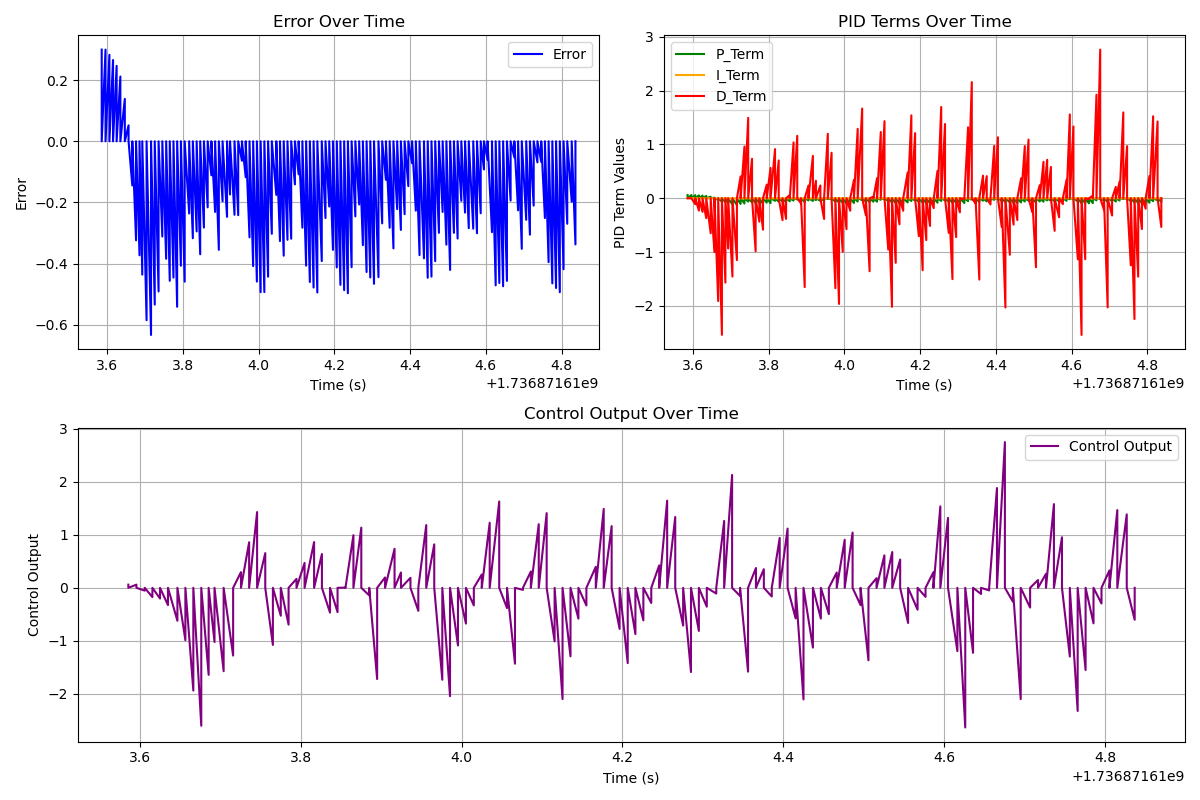
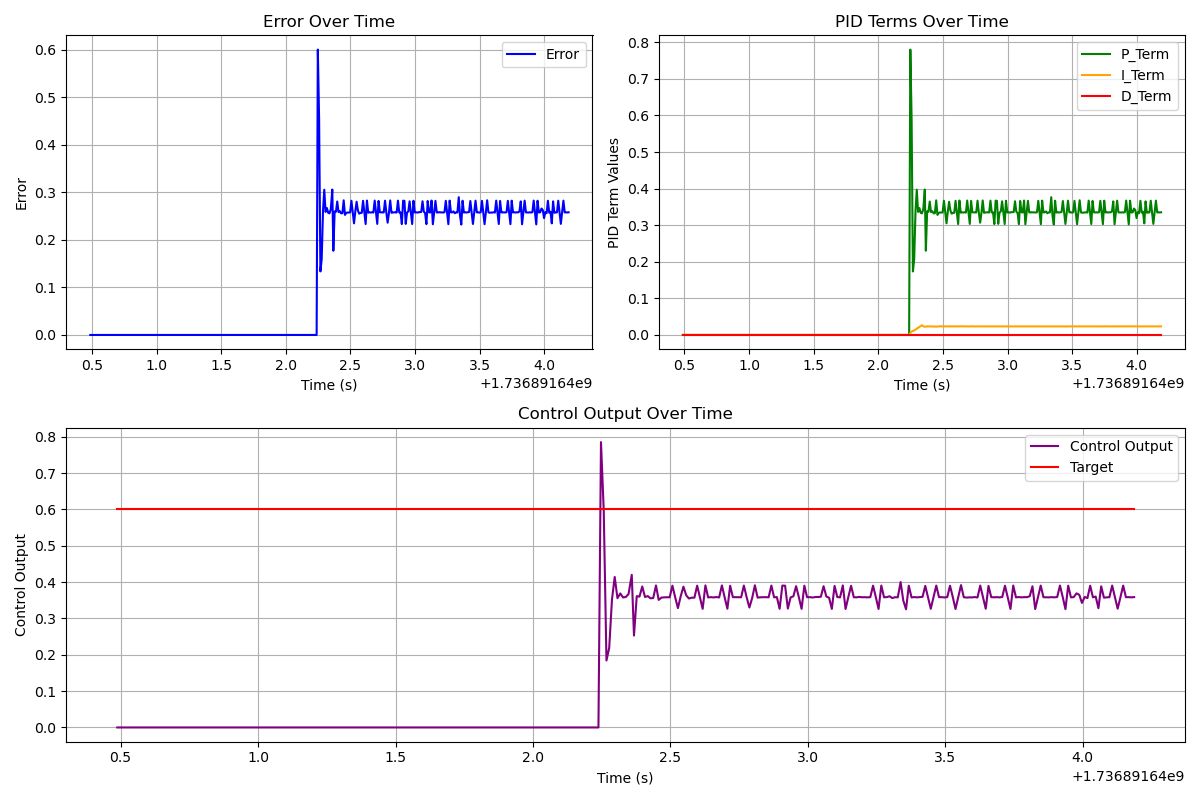
open loop speed control

diff --git a/src/locomotion/locomotion/controller.py b/src/locomotion/locomotion/controller.py
@@ -9,34 +9,34 @@ from locomotion.motor_control import MotorController
 from locomotion.localization import LocalizationNode
 
 from pid import PID_ctrl
-from utilities import calculate_pos_error, calculate_velocity_error
+from utilities import calculate_pos_error
 from robot_params import max_linear_speed, max_angular_speed
 
 class ControllerNode(Node):
-    def __init__(self, klp=0.2, klv=0.2, kli=0.2, kap=0.2, kav=0.2, kai=0.2):
+    def __init__(self, klp=1.3, kld=0, kli=1.0, kap=0.2, kad=0.2, kai=0.2):
         super().__init__('Controller')
         self.cmd_vel_subscription = self.create_subscription(Twist, '/cmd_vel', self.cmd_vel_callback, 10)
         self.cmd_pose_subscription = self.create_subscription(PoseStamped, '/cmd_pose', self.cmd_pose_callback, 10)
 
         self.cmd_publisher = self.create_publisher(String, '/cmd', 10)
         
-        self.velocity_target = Twist()
         self.goal_pose = PoseStamped()
+        self.velocity_target = Twist()
+        self.last_linear_velocity = 0.0
+        self.last_angular_velocity = 0.0
+        self.alpha = 0.05  # TODO: tune for how agressively the robot should stop
 
         self.motor_controller = MotorController()
         self.localization_node = LocalizationNode()
 
-        self.linear_pid=PID_ctrl(klp, klv, kli)
-        self.angular_pid=PID_ctrl(kap, kav, kai)
+        self.linear_pid=PID_ctrl(klp, kld, kli)
+        self.angular_pid=PID_ctrl(kap, kad, kai)
         self.control_timer = self.create_timer(0.01, self.control_loop)
         self.linear_error_tolerance = 0.01 # 1cm TODO: tune this
-        self.angular_error_tolerance = 0.05 # rad TODO: tune this
+        self.angular_error_tolerance = 0.1 # rad TODO: tune this
 
     def cmd_vel_callback(self, msg):
         self.velocity_target = msg
-        # End control if the velocity target is 0
-        if self.velocity_target.linear.x == 0 and self.velocity_target.angular.z == 0:
-            self.reset_control()
 
     # End control if the pose target is 0
     def cmd_pose_callback(self, msg):
@@ -45,37 +45,54 @@ class ControllerNode(Node):
             self.reset_control()
 
     def control_loop(self):
-        # We have a velocity target
-        current_odom = self.localization_node.update_odometry()
-        if self.velocity_target.linear.x != 0 or self.velocity_target.angular.z != 0:
-            linear_error, angluar_error = calculate_velocity_error(self.last_odom.twist.twist, self.velocity_target)
-
         # We have a pose target
-        elif self.goal_pose.pose.position.x != 0 or self.goal_pose.pose.position.y != 0 or self.goal_pose.pose.orientation.z != 0:
-            linear_error, angluar_error = calculate_pos_error(self.last_odom.pose.pose, self.goal_pose.pose)
+        current_odom = self.localization_node.update_odometry()
+        if self.goal_pose.pose.position.x != 0 or self.goal_pose.pose.position.y != 0 or self.goal_pose.pose.orientation.z != 0:
+            linear_error, angluar_error = calculate_pos_error(current_odom.pose.pose, self.goal_pose.pose)
 
             # Check if we reached the goal
             if linear_error < self.linear_error_tolerance and angluar_error < self.angular_error_tolerance:
                 self.reset_control()
                 self.cmd_publisher.publish(String(data="goal_reached"))
                 return
-        # No target
+            
+            stamp = current_odom.header.stamp
+            linear_vel = self.linear_pid.update([linear_error, stamp])
+            # angular_vel = self.angular_pid.update([angluar_error, stamp])
+            angular_vel = 0.0
+
+            # Bound velocities
+            if abs(linear_vel) > max_linear_speed:
+                linear_vel = max_linear_speed if linear_vel > 0 else -max_linear_speed
+            if abs(angular_vel) > max_angular_speed:
+                angular_vel = max_angular_speed if angular_vel > 0 else -max_angular_speed
+
+            self.motor_controller.set_velocity(linear_vel, angular_vel)
+        # Open loop velocity control with gain scheduling
         else:
+             # Smooth target velocities
+            target_linear_vel = self.velocity_target.linear.x
+            target_angular_vel = self.velocity_target.angular.z
+
+            # Apply low-pass filtering for smooth transitions
+            smooth_linear_vel = self.alpha * target_linear_vel + (1 - self.alpha) * self.last_linear_velocity
+            smooth_angular_vel = self.alpha * target_angular_vel + (1 - self.alpha) * self.last_angular_velocity
+
+            # Update last velocities for filtering
+            self.last_linear_velocity = smooth_linear_vel
+            self.last_angular_velocity = smooth_angular_vel
+
+            # Bound velocities to robot limits
+            if abs(smooth_linear_vel) > max_linear_speed:
+                smooth_linear_vel = max_linear_speed if smooth_linear_vel > 0 else -max_linear_speed
+            if abs(smooth_angular_vel) > max_angular_speed:
+                smooth_angular_vel = max_angular_speed if smooth_angular_vel > 0 else -max_angular_speed
+
+            # Apply the smoothed velocities
+            self.motor_controller.set_velocity(smooth_linear_vel, smooth_angular_vel)
             return
-
-        stamp = self.last_odom.header.stamp
-        linear_vel = self.linear_pid.update([linear_error, stamp])
-        angular_vel = self.angular_pid.update([angluar_error, stamp])
-
-        # Bound velocities
-        if abs(linear_vel) > max_linear_speed:
-            linear_vel = max_linear_speed if linear_vel > 0 else -max_linear_speed
-        if abs(angular_vel) > max_angular_speed:
-            angular_vel = max_angular_speed if angular_vel > 0 else -max_angular_speed
         
-        # print(linear_vel)
-
-        self.motor_controller.set_velocity(linear_vel, angular_vel)
+        
 
     def reset_control(self):
         self.linear_pid.clear_history()

diff --git a/src/locomotion/locomotion/pid.py b/src/locomotion/locomotion/pid.py
@@ -2,14 +2,14 @@ from rclpy.time import Time
 
 class PID_ctrl:
     
-    def __init__(self, type_, kp=1.2, kv=0.8, ki=0.2, history_length=3, log_file="pid_log.csv"):
+    def __init__(self, kp, kd, ki, history_length=10, log_file="pid_log.csv"):
         # Data for the controller
         self.history_length = history_length
         self.history = []
 
         # Controller gains
         self.kp = kp
-        self.kv = kv
+        self.kd = kd
         self.ki = ki
 
         # Logging setup
@@ -29,11 +29,8 @@ class PID_ctrl:
         if len(self.history) > self.history_length:
             self.history.pop(0)
         
-        # If insufficient data points, use only the proportional gain
         if len(self.history) != self.history_length:
-            control_output = self.kp * latest_error
-            self.log_data(stamp, latest_error, control_output, 0, 0, control_output)
-            return control_output
+            return self.kp * latest_error
         
         # Compute the error derivative
         dt_avg = 0
@@ -43,8 +40,8 @@ class PID_ctrl:
             t0 = Time.from_msg(self.history[i-1][1])
             t1 = Time.from_msg(self.history[i][1])
             
-            dt = (t1.nanoseconds - t0.nanoseconds) / 1e9
-            dt_avg += dt
+            dt = max((t1.nanoseconds - t0.nanoseconds) / 1e9, 1e-6)
+            dt_avg += dt   
 
             error_dot += (self.history[i][0] - self.history[i - 1][0]) / dt
             
@@ -58,7 +55,7 @@ class PID_ctrl:
         # Compute PID terms
         p_term = self.kp * latest_error
         i_term = self.ki * error_int
-        d_term = self.kv * error_dot
+        d_term = self.kd * error_dot
 
         # Compute total control output
         control_output = p_term + i_term + d_term

diff --git a/src/locomotion/locomotion/motor_control.py b/src/locomotion/locomotion/motor_control.py
@@ -5,8 +5,8 @@ import lgpio
 
 from robot_params import wheel_radius, wheel_base, rated_speed, min_duty_cycle
 
-FORWARD = 1
-BACKWARD = 0
+FORWARD = 0
+BACKWARD = 1
 
 class MotorController:
     def __init__(self):
@@ -42,14 +42,13 @@ class MotorController:
         lgpio.gpio_write(self.chip, self.motor1dir, FORWARD if left_wheel_velocity >= 0 else BACKWARD)
         lgpio.gpio_write(self.chip, self.motor2dir, FORWARD if right_wheel_velocity >= 0 else BACKWARD)
 
-        # Update motor PWM duty cycles
-        if left_duty_cycle > 0:
-            left_duty_cycle = max(left_duty_cycle, min_duty_cycle)
+        # # Update motor PWM duty cycles
+        # if left_duty_cycle > 0:
+        #     left_duty_cycle = max(left_duty_cycle, min_duty_cycle)
         
-        if right_duty_cycle > 0:
-            right_duty_cycle = max(right_duty_cycle, min_duty_cycle)
+        # if right_duty_cycle > 0:
+        #     right_duty_cycle = max(right_duty_cycle, min_duty_cycle)
 
-        print(f"Left: {left_wheel_velocity} m/s, Right: {right_wheel_velocity} m/s")
         self.motor1.change_duty_cycle(left_duty_cycle)
         self.motor2.change_duty_cycle(right_duty_cycle)
 

diff --git a/src/locomotion/locomotion/localization.py b/src/locomotion/locomotion/localization.py
@@ -59,8 +59,6 @@ class LocalizationNode(Node):
         delta_time = (stamp - self.last_time).nanoseconds * 1e-9
         self.last_time = stamp
 
-        # print(f"Delta ticks: {delta_ticks_left}, Delta Time: {self.last_time - self.get_clock().now()}")
-
         # Compute wheel displacements
         d_left = (delta_ticks_left / self.ticks_per_revolution) * (2 * math.pi * self.wheel_radius)
         d_right = (delta_ticks_right / self.ticks_per_revolution) * (2 * math.pi * self.wheel_radius)
@@ -107,7 +105,7 @@ class LocalizationNode(Node):
         odom_msg.twist.twist.angular.z = angular_velocity
 
         # print(f"X: {self.x}, Y: {self.y}, Theta: {self.theta}")
-        # print(f"Linear Velocity: {avg_linear_velocity}")
+        # print(f"Delta ticks: {delta_ticks_left}, Delta Time: {delta_time}, Velocity: {linear_velocity}")
 
         self.odom_publisher.publish(odom_msg)
         return odom_msg

diff --git a/src/locomotion/locomotion/plot.py b/src/locomotion/locomotion/plot.py
@@ -35,6 +35,7 @@ def plot_pid_data(df):
     # Plot control output
     plt.subplot(2, 1, 2)
     plt.plot(df["Timestamp"], df["Control_Output"], label="Control Output", color="purple")
+    plt.plot(df["Timestamp"], [0.6 for _ in range(len(df["Control_Output"]))], label="Target", color="red")
     plt.title("Control Output Over Time")
     plt.xlabel("Time (s)")
     plt.ylabel("Control Output")

diff --git a/src/locomotion/locomotion/utilities.py b/src/locomotion/locomotion/utilities.py
@@ -35,8 +35,3 @@ def normalize_angle(angle):
     if angle > M_PI:
         angle -= 2 * M_PI
     return angle
-
-def calculate_velocity_error(current_velocity, target_velocity):
-    linear_error = target_velocity.linear.x - current_velocity.linear.x
-    angular_error = target_velocity.angular.z - current_velocity.angular.z
-    return linear_error, angular_error
